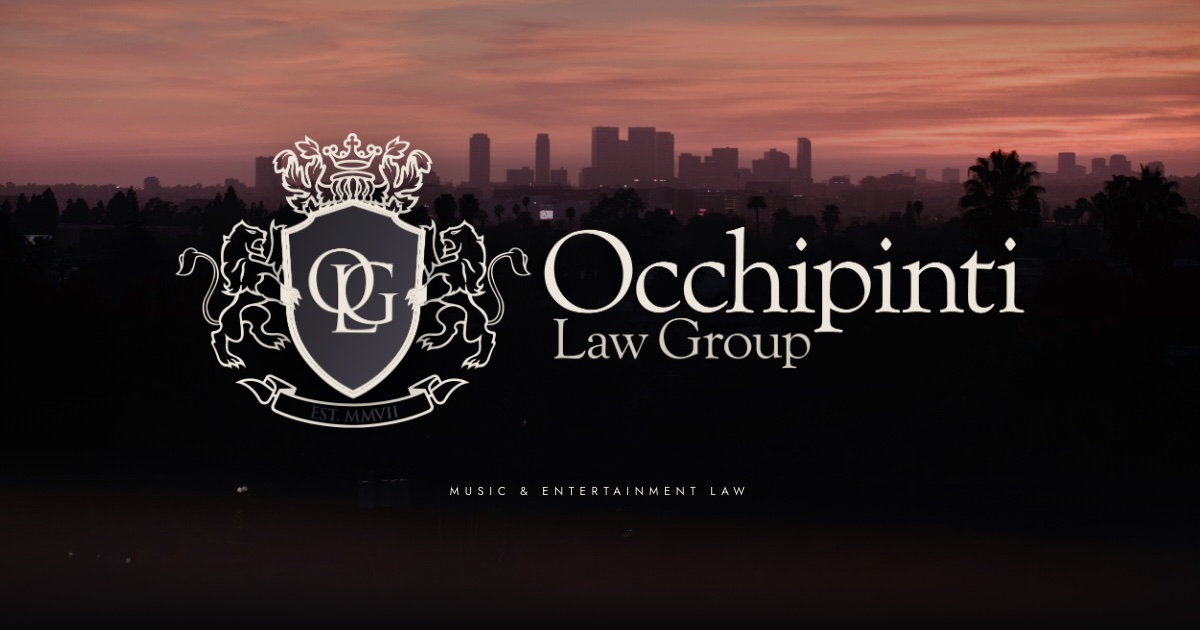
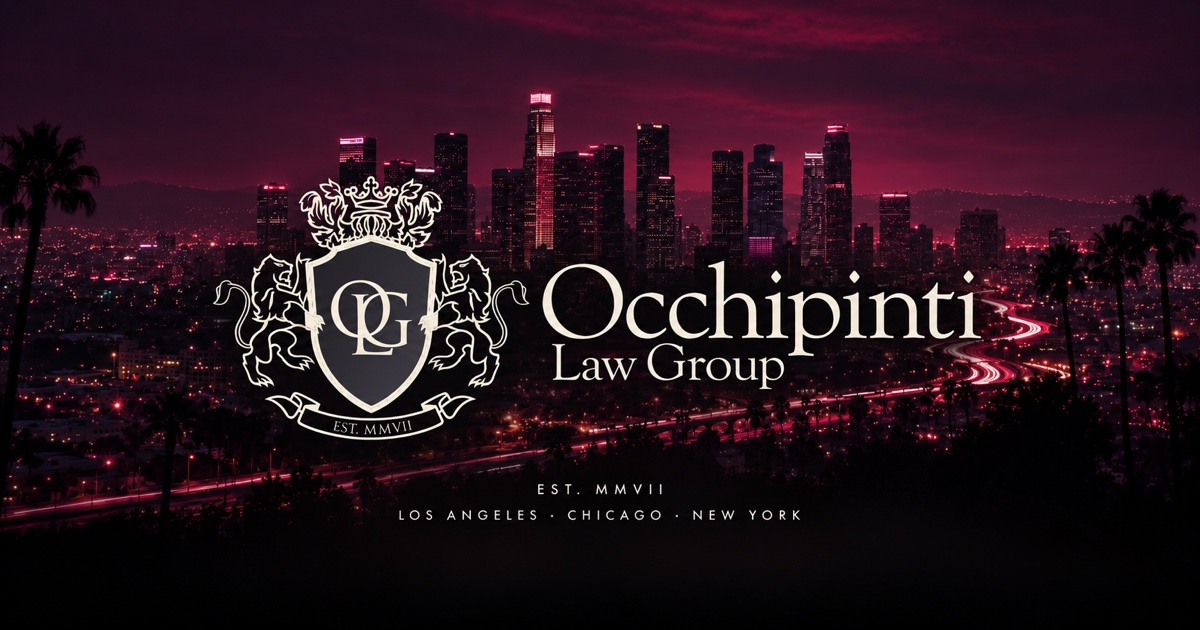
Update social preview to match night skyline homepage

diff --git a/index.html b/index.html
@@ -14,7 +14,7 @@
 <meta property="og:image" content="https://olgla.com/assets/og-image.jpg">
 <meta property="og:image:width" content="1200">
 <meta property="og:image:height" content="630">
-<meta property="og:image:alt" content="Occhipinti Law Group crest over the Los Angeles skyline at sunset">
+<meta property="og:image:alt" content="Occhipinti Law Group crest and wordmark over the pink Los Angeles night skyline">
 <meta name="twitter:card" content="summary_large_image">
 <meta name="twitter:title" content="Occhipinti Law Group | Counsel to Creatives">
 <meta name="twitter:description" content="Strategic legal counsel at the intersection of art, entertainment, and culture. Los Angeles, Chicago and New York.">
